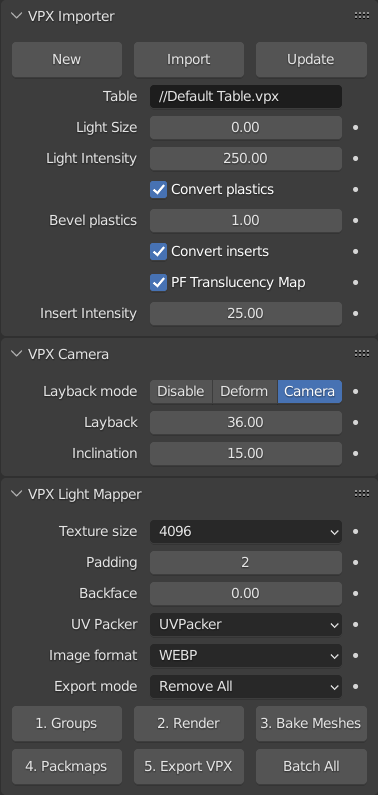
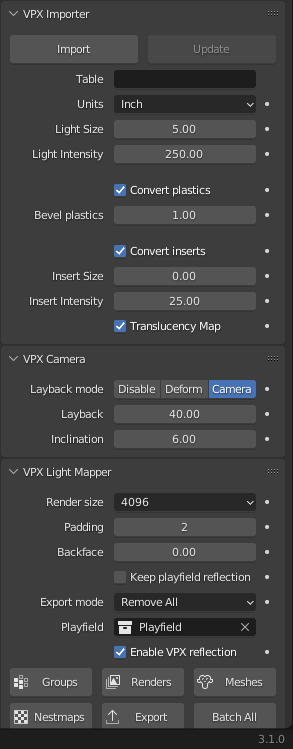
Update Doc

diff --git a/README.md b/README.md
@@ -24,7 +24,7 @@ This tool is just my attempt at building better tables. It is shared in the hope
 
 [Visual Pinball X](https://github.com/vpinball/vpinball) is a game engine dedicated to pinball game simulation. It is a great tool which has allowed a whole community to grow and produce incredible pinball tables ([VPForums](https://www.vpforums.com), [VPUniverse](https://www.vpuniverse.com), [Orbitalpin](https://www.orbitalpin.com), [Pinball Nirvana](https://www.pinballnirvana.com), [VPDB](https://www.vpdb.io), [PinSimDB](https://www.pinsimdb.org),...). For the graphic part, it includes a nice realtime rendering engine which allows great visual results. 
 
-To obtain the best visuals, table creators may choose to precompute part of the rendering of their table in a more advanced offline renderer like [Blender](www.blender.org), a.k.a. "baking" the rendering. This works especially nicely for pinball games since the game is played from a fixed point of view, allowing to efficently bake view dependent lighting effects. 
+To obtain the best visuals, table creators may choose to precompute parts of the rendering of their table in a more advanced offline renderer like [Blender](www.blender.org), a.k.a. "baking" the rendering. This works especially nicely for pinball games since the game is played from a fixed point of view, allowing to efficently bake view dependent lighting effects.
 
 The visual quality of a pinball simulation is also tighlty linked to the rendering of the many (up to hundred) lights that are used in a pinball. The texture baking approach can be extended regarding precomputing the effect of lighting by using "light maps", that is to say models with precomputed textures storing the effect of lights. These models are a shell around the table objects, with texture storing the lighting. When playing the pinball table, they are renderered by adding the lights contribution to the base model.
 
@@ -32,6 +32,10 @@ This tool aims at helping with the process of creating VPX tables by:
 - making importing/updating table a fast, simple and easy task,
 - easing camera setup,
 - automating the full bakemap/lightmap process, with a good level of optimization.
+
+![Property Panel](docs/Property-panel.png)
+
+The UI is available in the scene property panel, inside the "VPX Light Mapper" pane. Lots of informations and tools are also available in the information (N key) panel of the 3D view and the collection property panel (bake & light groups configuration).
 
 ## Features
 
@@ -41,8 +45,8 @@ This toolkit offers the following features:
 - Automatically detect occluded objects that can be exclude from bake meshes
 - Automatically setup groups of non overlapping objects
 - Batch render bakemap/lightmap, automatically optimizing renders
-- Generate mesh for baked mesh and lightmaps, optimizing them (subividing for limited prejection distortion, pruning of unneeded faces for lightmaps, limited dissolve, backface removal,...), generating optimized combined UV map accross the mesh set
-- Render packed texture combining all the bakemap/lightmap
+- Generate mesh for bake/lightmaps and optimize them (subividing for limited prejection distortion, pruning of unneeded faces for lightmaps, limited dissolve, backface removal,...)
+- Render nested texture combining all the bakemap/lightmap
 - Export directly playable VPX table file with updated geometry, textures and script
 
 ## Installation
@@ -64,53 +68,14 @@ Depending on your security configuration, this additional dependency installatio
 
 Additionnally, this tool needs the latest, not yet released, build of Visual Pinball X or Visual Pinball for VR. These are available [here for VPX](https://github.com/vpinball/vpinball/actions) and [here for VPVR](https://github.com/vpinball/vpvr/actions). Be aware that these builds are not release version but alpha build. Therefore you are likely to encounter bugs, and you should not use them without backing up your work first.
 
-### Better packing of UV maps
-
-At some points bake maps have to be tightly packed in a big UV map. For this, Blender offers a default operator called 'Pack Islands' which give not that good results. For better packing, you should install and use another UV map packing tools like:
-- [UV Packer](https://www.uv-packer.com/) which works great (far better than Blender's default) and is free,
-- [UV Pack master](https://uvpackmaster.com/) which is known to give very good results, but needs a paid license.
-
-This add-on natively supports the free [UV Packer](https://www.uv-packer.com/) and fully integrates with him for batch processing. To use this feature, you need to download the UVPacker exe and place it in the addon folder.
-
-## Overview
-
-![Property Panel](docs/Property-panel.png)
-
-This tool is splitted in 3 modules which are accessed through the usual Blender UI panes: a VPX file importer, a lightmap baker, and an exporter.
-
-The workflow can be whatever you want, but the tool was designed around the following one:
-1. Create a table in VPX
-2. Import the table in Blender (or update if this is done after the first iteration) 
-3. Adjust the generated baking configuration (light groups, bake groups, bake modes,...)
-4. Improve the materials and adjust the lights in Blender
-5. Bake
-6. Review the result direclty inside Blender
-7. Export an updated table with all the bakes and and updated script with lightmap synchronization integrated
-10. Test and adjust light factors in VPX, eventually go back to step 2, using update button
-
-
-The tool expects a scene using the following collections:
-- 'Setup': the generated camera and lattice object. Just uncheck it.
-- 'Trash': deleted objects, not rendered
-- 'Hidden': hidden objects, not rendered
-- 'Indirect': objects which are not baked (not included in the output meshes and textures) but *indirectly* influence the lighting. For example this can be used for trigger wires, gate wires,...
-- 'Bake Target': some objects may be defined to be baked to a 'bake target', that is to say that they will be rendered but the result will be projected on another simplified mesh wich will be used in VPX. These 'bake targets' are placed in this collection.
-- 'Light Groups': this collection hosts sub-collections which define each lighting situation (i.e. all the lighting, see below).
-- 'Bake Groups': this collection hosts sub-collections which define each bake group (i.e. what will be rendered, see below).
-
-The UI is available in the scene property panel, inside the "VPX Light Mapper" pane. Lots of informations and tools are also available in the information (N key) panel of the 3D view and the collection property panel (bake & light groups configuration).
-
 ## Import tool
 
-The import tool is used to create a scene setup (empty or from an existing table), then update it. The initial imports will create the default collections, loads everything and try to set up the right collections. A few things to note:
-- All flasher are imported initially hidden since they are mainly use for lighting effects. Additively blended flashers are also imported as lights in the 'Flashers' light sub collection.
-- Lights are imported as emitting geometry or point lights depending on the 'bulb' option in VPX. Lights which are likely inserts follow a specific process (generate a slightly reflective cup below playfield, generate a translucency map for the playfield)
-- Movable parts of gates, spinner, triggers and bumpers are placed in the indirect collection.
+The import tool is used to create a scene setup (empty or from an existing table), then update it. The initial imports will create the default collections, loads everything and try to set up the right collections. Lights are imported as emitting geometry or point lights depending on the 'bulb' option in VPX. Lights which are likely inserts follow a specific process (generate a slightly reflective cup below playfield, generate a translucency map for the playfield)
 
 When updating, the process is the following:
 - All textures are reloaded
-- Objects link to groups (Hidden/Bake/...) are left untouched except for deleted objects which are moved to Trash
-- World environments (IBL and Black) are (re)created if missing. The environment texture is updated in the shader node named 'VPX.Mat.Tex.IBL'
+- Objects link to groups (Hidden/Bake/...) are left untouched except for deleted objects which are moved to the 'Hidden' collection
+- World environment is (re)created if missing. The environment texture is updated in the shader node named 'VPX.Mat.Tex.IBL'
 - Objects are identified by their link to VPX object (look in 3D View side panel, there you can see/edit the VPX identifier, eventually associated to a subpart for multipart objects like bumpers). If object is not found, it is created like on initial import but if object is found, it is updated according to its configuration (available in the 3D View side panel):
 	- If not disabled, meshes/curves/light informations are replaced by the ones defined in the VPX table,
 	- If not disabled, position/rotation/scale are redefined to match the one of the VPX table
@@ -123,59 +88,56 @@ To take control of a material, either change the material to a non 'VPX.' named 
 
 ## Camera tool
 
-Since having a matching camera with the player view point is a key point for correct perspective projected baking, a dedicated tool allows you to manage it automatically. It will update the 'Bake Camera' according to your settings (which are imported from the VPX table).
+Since having a matching camera with the player view point is needed for correct perspective projected baking, a dedicated tool allows you to manage it automatically. It will update the camera according to your settings (which are imported from the VPX table).
 
 The tool always fit the camera to the objects to be baked, processing layback according to the selected mode:
 - Disable: don't take layback in account (this won't render well in VPX),
 - Deform: deform geometry by applying a layback lattice (this will somewhat break the shading but is the most faithfull to VPX rendering),
-- Camera: this will adjust camera inclination and rendering properties to correspond to VPX rendering without breaking the shading.
+- Camera: this will adjust camera inclination and rendering properties to correspond to VPX rendering without breaking the shading. This mode is the one recommended for good quality baking.
 
 ## Bakemap/Lightmap tool
 
+The workflow can be whatever you want, but the tool was designed around the following one:
+1. Create a table in VPX
+2. Import the table in Blender (or update if this is done after the first iteration) 
+3. Adjust the generated baking configuration (light groups, bake groups, bake modes,...)
+4. Improve the materials and adjust the lights in Blender
+5. Bake
+6. Review the result direclty inside Blender
+7. Export an updated table with all the bakes
+8. Adapt the table script, using the generated helper
+9. Test and adjust in VPX, eventually go back to step 2, using update button
+
 The texture baking is performed according to:
 - Light groups, which define each lighting situation to be computed,
-- Bake groups, which define groups of object to be rendered, baked together and exported into a single merged mesh.
+- Bake groups, which define groups of object to be rendered, baked together and exported.
+
+This tools performs baking using 'projected UV unwrapping'. This means that the baking is performed from the bake camera point of view, texture coordinates of the models are computed automatically by projecting them from the camera point of view. This method works well in the context of baking a pinball table:
+- you don't need to unwrap your models,
+- you can use default Blender's shading nodes,
+- the produced texture have uniform texel density (which is good for performance and visual quality).
+The drawback of this technique is that it is highly point of view dependent and won't work well on objects or ligths that can be moved. Alson this technique needs ad-hoc texture packing algorithm since normal uv-packing only works well if baking is performed after uv packing which is not the case here.
 
 The lightmap baker automates all the baking process according to the following workflow for each bake group:
 1. Identify non overlapping groups of objects from the camera point of view
 2. For each light situation, render each non overlapping object groups from the camera point of view and store these renders in a cache
-3. Generate a base optimized mesh from all the objects, suitable for fixed view baking (including preliminary mesh optimization, and automatically subdivision to avoid projection artefacts)
+3. Generate an optimized mesh for each bake group, suitable for fixed view baking (including preliminary mesh optimization, and automatically subdivision to avoid projection artefacts)
 4. For each light group, derive an optimized mesh by removing unlit faces
-5. For each of these meshes, prepare a packed bake map from the initial renders
-6. Combine all this packed bake/lightmap together, except for playfield bakemaps
+5. For all of these meshes, compute a texture map from the initial renders
 7. Export all this to an updated VPX file
 
 In the collection property panel, each bake groups has a 'bake mode' which determine how it will be processed:
-- Default
-	- Solid bake outputs splitted mesh per bake group
-	- Light map bake meshes are merged together (including the ones baked in playfield mode groups)
-- Playfield
-	- Solid bake outputs a splitted mesh per bake group, which is baked to a playfield size plane. This is a traditional bake (not a render with projective UV mapping) and requires to use view dependent shading. The toolkit provides material node group for view dependent shading with regards to the position of the camera.
-	- Light map behave exactly the same as in default mode and are merged together (including the ones from default mode groups)
-- *TODO* Movable
-	- Solid and light map bake outputs splitted mesh and image per object in the bake group, keeping each object origin
-
-This configuration is needed due to the fact that light bakes and solid bakes have different constraints:
-- Light bakes all end up with the same material in VPX (active, no lighting), they can be combined together to limit the number of draw calls, except for movable parts
-- Solid bakes are more complex:
-	- Static geometry is the best performance wise but is not applicable for non opaque parts, lower playfield, movable parts,...
-	- Non baked lights (classic inserts, playfield text and alpha inserts borders overlay) need a playfield mapped image (no perspective, ortho UV projection)
-	- Non opaque objects need an 'active' material, so should be baked to a separate mesh from static ones
-	- Obviously, movable objects (diverters,...) need to be moved during gameplay, so be baked separately (solid and light maps) keeping their own origin
+- Group: outputs a single mesh per bake group
+- Split: outputs a single mesh per object in the group, do not perform backface culling
+Additionally, each group must be marked as 'opaque' or 'non opaque'. This information is needed for VPX to correctly render transparent objects (they need to be rendered after opaque one, from back to front), to allow render optimization (static opaque objects are prerendered, giving a large performance boost), and to correctly process object border shading (transparency of borders of opaque objects is discarded).
 
 In the collection property panel, each light collection has a 'light mode' which determine how it will be processed:
+- Solid: content of the collection is used for the base bake (not a lightmap).
 - Group: all lights are treated as a group and generate a single lightmap,
 - Split: each light of the collection generate a lightmap,
-- World: content of the collection is used for the base bake.
-If your table have constantly emissive object or lamps, they need to be placed in the 'World' light group or they will influence each of the lightmap, creating ugly artefacts.
+Note that all lights or emissive objects must be placed in one of these collections or they will influence each of the lightmap, creating ugly artefacts.
 
-Finally, exporting consist in generating a new VPX table file with:
-- the new packed bake/lightmap images,
-- the bake/lightmap primitives,
-- an updated script for lightmap synchronization,
-- a timer to drive the script.
-
-The exporter has an option to decide what to do with the initial items of the table that have been baked:
+Exporting consist in generating a new VPX table file with the new packed bake/lightmap images, and the bake/lightmap primitives. The exporter has an option to decide what to do with the initial items of the table that have been baked:
 - Default: don't touh them,
 - Hide: hide items that have been baked,
 - Remove: remove items that have been baked and do not have physics, hide the one that have been baked but are needed for physics,
@@ -190,33 +152,26 @@ This little guide gives you the step to create your first lightmap baked table:
 4. In the scene panel, press the 'Import' button, and select the saved default VPX table
 5. Press 0 for camera point of view
 6. In the 3D view, in the right panel (N shotcut), select the VLM pane
-7. In the 3D view, select the primitives on the left and right side of the table, then click 'Hide' in the VLM side panel
-8. In the 'Active' collection, select all shadow objects ('FlipperRsh', 'BallShadow1',...) and press the 'Hide' button of the VLM side panel
+7. In the 3D view, select the primitives on the left and right side of the table, then move them to the 'Hidden' collection
+8. In the 'Active' collection, select all shadow objects ('FlipperRsh', 'BallShadow1',...) and move them to the 'Hidden' collection
 9. Move the remaining primitive of the 'Active' collection to the 'Default' collection
 10. Save your scene
 11. In the scene panel, select a target resolution (start with very low for an ugly but fast preview), then press 'Batch'
 12. Wait (this may be long depending on your computer and the resolution), watching in the console what is happening
-13. Open the new VPX table with the version of VPX that supports additive blended primitive and play!
-14 You can also preview/inspect the result directly in blender: select 'Rendered' mode for the 3D View, you now have a pink table! Select it, and press 'Load/Unload Renders' in the VLM panel to view it with the baked textures. Do the same for the different bake/light mesh you want to inspect.
+13 You can preview/inspect the result directly in blender: select 'Rendered' mode for the 3D View, you now have a pink table! Select it, and press 'Load/Unload Renders' in the VLM panel to view it with the baked textures. Do the same for the different bake/light mesh you want to inspect.
+14. Open the new VPX table and play! You will the see the baked objects. Though, lights won't be synchronnized until you update your table script.
 
 ## Usefull hints
 
 ### Optimizing the bake mesh (and render time)
 
-As much as possible, you should avoid including occluded (not directly visible) geometry from your bakes. To help you in doing so, the add-on offers a small tool that will identify occluded geometry from the camera view point. You can then choose to mark is as 'Indirect' (it will influence the image but won't be part of the bake mesh). This tool can be accessed from the 3D view, by clicking the button 'Select Occluded'. Note that this can be a lengthy operation. Another side benefit of tagging as indirect the occluded geometry is that this will help limiting the number of render groups, and therefore limit the render time.
+As much as possible, you should avoid including occluded (not directly visible) geometry from your bakes. To help you in doing so, the add-on offers a small tool that will identify occluded geometry from the camera point of view. You can then choose to mark them as 'Indirect' (it will influence the image but won't be part of the bake mesh). This tool can be accessed from the 3D view, by clicking the button 'Select Occluded'. Note that this can be a lengthy operation. Another side benefit of tagging as indirect the occluded geometry is that this will help limiting the number of render groups, and therefore limit the render time.
 
 Beside this user action, to avoid ending up with very large meshes (in terms of number of faces, as well as overdraw when rendering in VPX), all produced meshes are optimized by:
 - pruning duplicate vertices,
 - performing a limited dissolve of the mesh (see Blender doc),
 - performing backface culling,
 - removing unlit faces from lightmaps.
-
-### Plastics
-
-The importer has an option to detect plastic walls and process them accordingly. If set, all thin walls will be processed like this:
-- place the top material at the bottom, and set it to be shaded as translucent instead of diffuse,
-- set side and top material to a predefined transparent plastic material,
-- bevel the edges of the resulting mesh (only for baking, the bevel is not exported).
 
 ### Inserts
 
@@ -225,48 +180,13 @@ The importer has an option to detect inserts (lights placed on the playfield, wi
 - generate a cup mesh, opened on the top side, corresponding to the VPX light shape, with a core reflective material,
 - adjust the playfield material to be partly translucent for the inserts, using an automatically generated translucency map.
 
-A better way of baking inserts is:
-- Cut hole in the playfield texture (transparent areas),
-- Place in the 'Bake Target' collection a little, black shaded, cup corresponding to their shape to give them some depth. 
-- Place the detailled model of the the insert in the bake collection (with a plastic shader) specifying its 'Bake To' parameter to the little cup previously created. 
-- For the lighting, an emitter mesh is placed inside the model, as well as a spot light slightly above the playfield, all of them grouped together in a light collection to be baked together.
-- Place a glass for the pinball cabinet which should be transparent for camera rays, and classic glass otherwise.
-This will allow inserts with detailled lighting (thanks to the emitter mesh and its nice texture), wich lights its surrounding (thanks to the spot light), and also has large indirect lighting influence (thanks to the pincab glass), with somme fake depth (thanks to the little insert cup), and with limited performance impact (in the end, only the little cup is exported and rendered by VPX).
-
 ### Transparent objects (plastic ramps, bumper caps,...) and alpha blending
 
-Visual Pinball X performs alpha blending of transparent objects. This means that the object is rendered on top of objects behing it, blending the color between them according to the alpha channel of the used texture. This can be compared to the shading of a transparent glass with an indice of refraction of 1 (i.e. non refractive glass).
+Visual Pinball X performs alpha blending of transparent objects. This means that the object is rendered on top of objects behind it, blending the color between them according to the alpha channel of the used texture. This can be compared to the shading of a transparent glass with an indice of refraction of 1 (i.e. non refractive glass). Alpha blending needs the opaque objects to be rendered first, then the alpha blended parts, rendering the ones in the back first, then the ones in the front.
 
-Blender can render glass, outputing to the alpha channel the amount of escaping rays, that is to say rays that are transmitted through the glass and reaching the background. This is great since it gives full control on what is rendered to the user. To enable this, in 'Render Properties > Film > Transparent' check 'Transparent Glass' and increase 'Roughness Threshold'. In the case of a pinball table, transparent objects usually have other objects behind them, therefore rays are not escaping but reaching other elements. If we want to view a ball passing behind 2 elements, they have to be rendered as 2 layers: a background one, and an alpha blended one. To let Blender knows about this separation between the 2 layers, we need to place a mesh with an holdout shader.
-
-Separating the layers for rendering is mandatory for the baked mesh which are rendered as a solid (opaque or alpha blended). For lightmaps, which are rendered as additively blended (added to the rest), this is not needed. Therefore the holdout shaded mesh is not needed for lightmaps. The toolkit provided a shader node group named 'VLM.Bake Info' that provides this shading, along with other baking information taht can be used in a custom shader.
+Blender can render glass, outputing to the alpha channel the amount of escaping rays, that is to say rays that are transmitted through the glass and reaching the background. This is great since it gives full control on what is rendered to the user. To enable this, in 'Render Properties > Film > Transparent' check 'Transparent Glass' and increase 'Roughness Threshold'. In the case of a pinball table, transparent objects usually have other objects behind them, therefore rays are not escaping but reaching other elements. If we want to view a ball passing behind 2 elements, they have to be rendered as 2 layers: a background opaque one, and an alpha blended one. To let Blender knows about this separation between the 2 layers, we need to place a mesh between them with an holdout shader.
 
 Note that, with this setup, there won't be any shadowing, since there is no shadowing support inside VPX. So a ball passing under a transparent object will not occlude light coming from behind it.
-
-### Lightmap emission range
-
-*TODO* This feature is under heavy developpement
-
-To be rendered correctly, lightmaps need to have a color range outside the traditional 0 to 1 range supported by most image files (especially Png/WebP). VPX supports HDR for this, but it is not a suitable solution as it leads to huge files and low performance. The usual way (with regards to how it is done in VPX with flasher or light objects) of doing is to have a color/texture using a normal range of 0-1 but multiplied by a >1 intensity factor when rendered.
-
-To account for this, when rendering lightmaps, the toolkit evaluate its 'HDR range', that is to say the highest (averaged) value colors reach in its render. This range is then used when exporting rendering lightmap to the packmap to apply as a scaling factor to lower birghtness and restrict the light range value in the exported image. This scaling factor is used as an intensity scale factor when rendering in VPX, giving back its full brightness to the lights.
-
-WebP files use high compression in the lower lights since. This can lead to artefacts if using high brightness factors. Ifn this case, using Png texture should solve the problem (the toolkit always generates both of them, just replace the WebP by importing the Png one).
-
-### Movable objects
-
-*TODO* This feature is under heavy developpement
-
-Perspective projection baking is only suitable for fixed view point (the one the projection is performed). Therefore, it is not suitable for movable objects. To handle them, you need to place them in a bake group with a bake mode defined to 'Movable'. The objects in these groups are processed differently:
-- At 'Group' step, they are just skipped
-- At 'Render' step:
-  - For the bake of other objects: depending on the settings selected per object, they are either hide or kept as indirect contributor to the scene
-  - To generate their bake/lightmaps:
-    - Their first material slot is searched for a 'VLM.BakeTex' named image node with a target bake texture, if not found and the object has an image node 'VPX.Tex' (imported image texture from VPX), the  'VLM.BakeTex' node is created with the same size as the VPX texture.
-	- A bake/lightmap is then performed for each lighting situation and cached, computing for each of the lightmap bakes the influence level.
-- At 'Meshes' step, their original mesh is copied untouched to the result collection. For each of the lighting situation with an influence level above the choosen threshold, a lightmap shell mesh is also generated.
-- At 'Packmap' step, they are just skipped.
-- At 'Export' step, they are included (replacing the initial object) and the script to sync their position/lighting is generated
 
 ### Managing the cache
 
@@ -275,5 +195,3 @@ For the moment, this cache is manually managed. Inside it, you will find 3 folde
 - Object Masks: contains the mask computed for each object during the 'Group' step. You need to manually delete elements (or the whole folder) when objects are moved
 - Renders: contains the actual renders. This needs to be manually cleared for render to actually happen (or if you know what you do, clear the only the elements you want to rerender)
 - Export: contains the packmaps in Png and WebP format. As for the other folders, this needs to be manually cleared for packmaps to be regenerated
-
-
